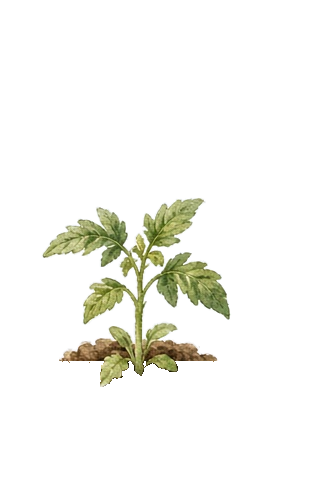
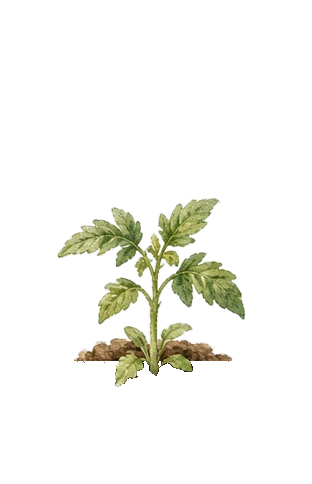
Apply final plants-centered handoff (recentered sprites)
Supersedes plants-nomound: Heily-centered canvases, plant-meta base/top
synced; draw at -w/2. Refreshed centering screenshots; plots unchanged.

Changed region(s): [[0.1442, 0.4029, 0.8077, 0.8058]]

diff --git a/renderer/art.js b/renderer/art.js
@@ -15,7 +15,7 @@
             night: '../assets/backgrounds/night.jpg',
         },
         plots: [{"x":347,"y":369,"w":169,"h":58,"row":0,"scale":0.5,"box":[266,338,435,396]},{"x":554,"y":369,"w":151,"h":58,"row":0,"scale":0.5,"box":[478,340,629,398]},{"x":761,"y":369,"w":154,"h":59,"row":0,"scale":0.5,"box":[684,340,838,399]},{"x":968,"y":369,"w":171,"h":55,"row":0,"scale":0.5,"box":[883,342,1054,397]},{"x":283,"y":494,"w":215,"h":93,"row":1,"scale":0.62,"box":[173,446,388,539]},{"x":528,"y":504,"w":186,"h":99,"row":1,"scale":0.62,"box":[430,452,616,551]},{"x":771,"y":504,"w":188,"h":100,"row":1,"scale":0.62,"box":[687,452,875,552]},{"x":1027,"y":506,"w":226,"h":101,"row":1,"scale":0.62,"box":[921,450,1147,551]}],
-        plants: {"lettuce":{"dir":"lettuce","stages":[{"w":314,"h":362,"base":330,"top":214},{"w":314,"h":362,"base":250,"top":123},{"w":314,"h":362,"base":253,"top":127},{"w":314,"h":362,"base":258,"top":53},{"w":314,"h":362,"base":260,"top":28}]},"mint":{"dir":"mint","stages":[{"w":312,"h":488,"base":456,"top":335},{"w":312,"h":488,"base":380,"top":268},{"w":312,"h":488,"base":411,"top":206},{"w":312,"h":488,"base":397,"top":93},{"w":312,"h":488,"base":394,"top":35}]},"cucumber":{"dir":"cucumber","stages":[{"w":314,"h":487,"base":456,"top":335},{"w":314,"h":487,"base":373,"top":263},{"w":314,"h":487,"base":372,"top":159},{"w":314,"h":487,"base":371,"top":55},{"w":314,"h":487,"base":383,"top":21}]},"tomato":{"dir":"tomato","stages":[{"w":312,"h":484,"base":452,"top":380},{"w":312,"h":484,"base":376,"top":255},{"w":312,"h":484,"base":386,"top":198},{"w":312,"h":484,"base":367,"top":38},{"w":312,"h":484,"base":381,"top":30}]},"sunflower":{"dir":"sunflower","stages":[{"w":296,"h":520,"base":493,"top":395},{"w":296,"h":520,"base":446,"top":298},{"w":296,"h":520,"base":419,"top":215},{"w":296,"h":520,"base":417,"top":83},{"w":296,"h":520,"base":416,"top":28}]},"apple":{"dir":"apple-tree","stages":[{"w":356,"h":538,"base":509,"top":387},{"w":356,"h":538,"base":439,"top":320},{"w":356,"h":538,"base":408,"top":209},{"w":356,"h":538,"base":405,"top":93},{"w":356,"h":538,"base":405,"top":30}]}},
+        plants: {"lettuce":{"dir":"lettuce","stages":[{"w":314,"h":362,"base":330,"top":214},{"w":314,"h":362,"base":250,"top":122},{"w":314,"h":362,"base":253,"top":126},{"w":314,"h":362,"base":258,"top":51},{"w":314,"h":362,"base":260,"top":26}]},"mint":{"dir":"mint","stages":[{"w":312,"h":488,"base":456,"top":335},{"w":312,"h":488,"base":380,"top":267},{"w":312,"h":488,"base":375,"top":205},{"w":312,"h":488,"base":397,"top":92},{"w":312,"h":488,"base":394,"top":35}]},"cucumber":{"dir":"cucumber","stages":[{"w":314,"h":487,"base":456,"top":335},{"w":314,"h":487,"base":373,"top":261},{"w":314,"h":487,"base":372,"top":157},{"w":314,"h":487,"base":371,"top":54},{"w":314,"h":487,"base":383,"top":19}]},"tomato":{"dir":"tomato","stages":[{"w":312,"h":484,"base":452,"top":380},{"w":312,"h":484,"base":376,"top":254},{"w":312,"h":484,"base":386,"top":197},{"w":312,"h":484,"base":367,"top":37},{"w":312,"h":484,"base":381,"top":27}]},"sunflower":{"dir":"sunflower","stages":[{"w":296,"h":520,"base":493,"top":395},{"w":296,"h":520,"base":423,"top":296},{"w":296,"h":520,"base":419,"top":214},{"w":296,"h":520,"base":417,"top":83},{"w":296,"h":520,"base":416,"top":26}]},"apple":{"dir":"apple-tree","stages":[{"w":356,"h":538,"base":509,"top":387},{"w":356,"h":538,"base":439,"top":319},{"w":356,"h":538,"base":408,"top":208},{"w":356,"h":538,"base":405,"top":92},{"w":356,"h":538,"base":405,"top":28}]}},
         meters: {"sun": {"w": 437, "h": 286, "dots": [[74.5, 210.0, 18.5], [124.0, 210.2, 18.5], [173.0, 210.2, 18.5], [221.8, 210.5, 18.2], [270.2, 210.2, 18.2], [317.8, 210.8, 18.2], [365.2, 210.2, 18.2]]}, "water": {"w": 441, "h": 280, "dots": [[76.5, 201.8, 19.0], [126.0, 201.8, 19.0], [174.8, 201.5, 18.8], [223.8, 201.8, 18.8], [271.8, 202.0, 18.8], [319.5, 202.0, 18.5], [367.2, 202.0, 18.2]]}, "fertilizer": {"w": 444, "h": 283, "dots": [[73.8, 195.8, 19.2], [124.2, 195.8, 19.2], [173.8, 196.2, 19.2], [222.8, 196.0, 18.8], [271.5, 196.2, 18.5], [320.2, 196.2, 18.8], [369.2, 196.2, 18.8]]}},
         card: '../assets/ui/card-blank.png',
         // Heily's effect strips: 12 frames of 200x320, bottom-centre anchored, soil line y=282.
